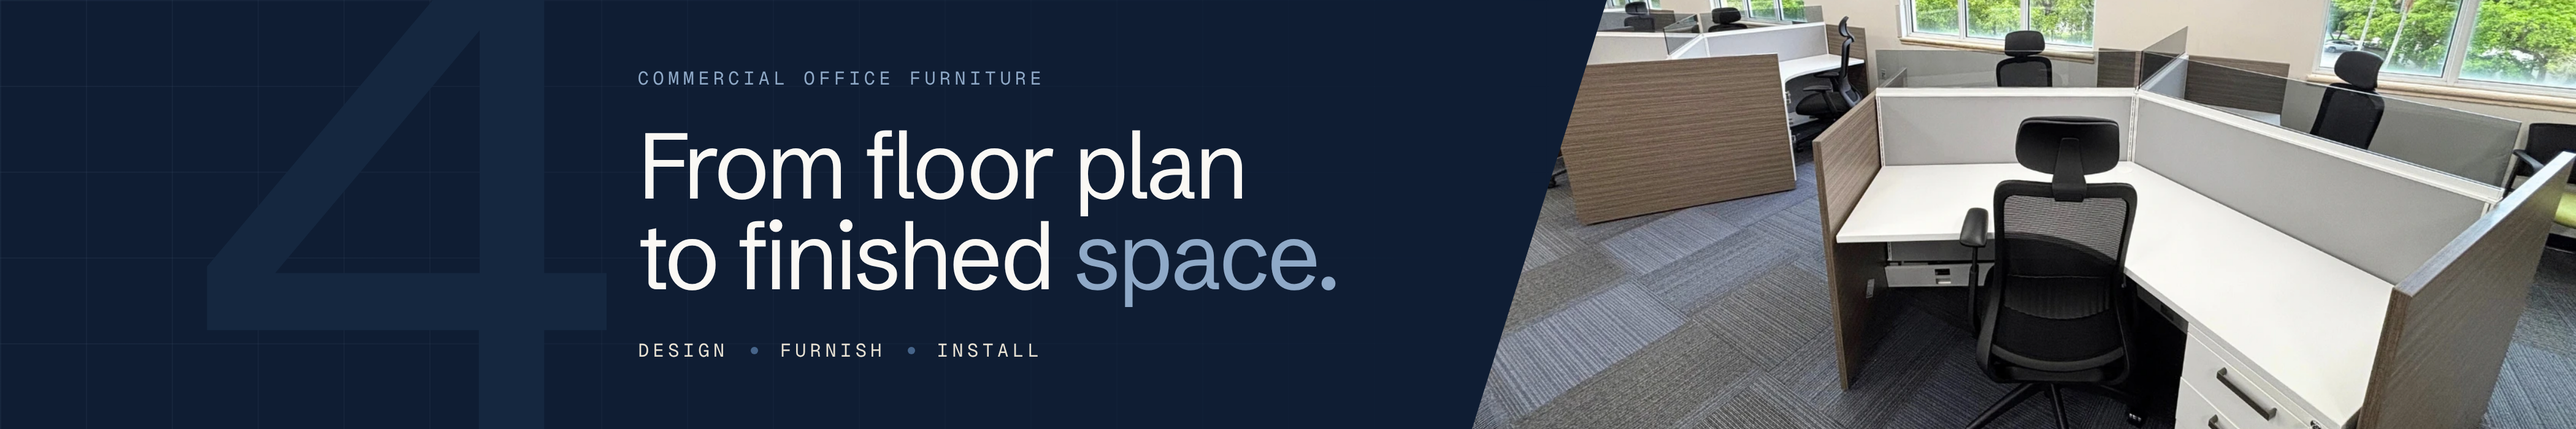
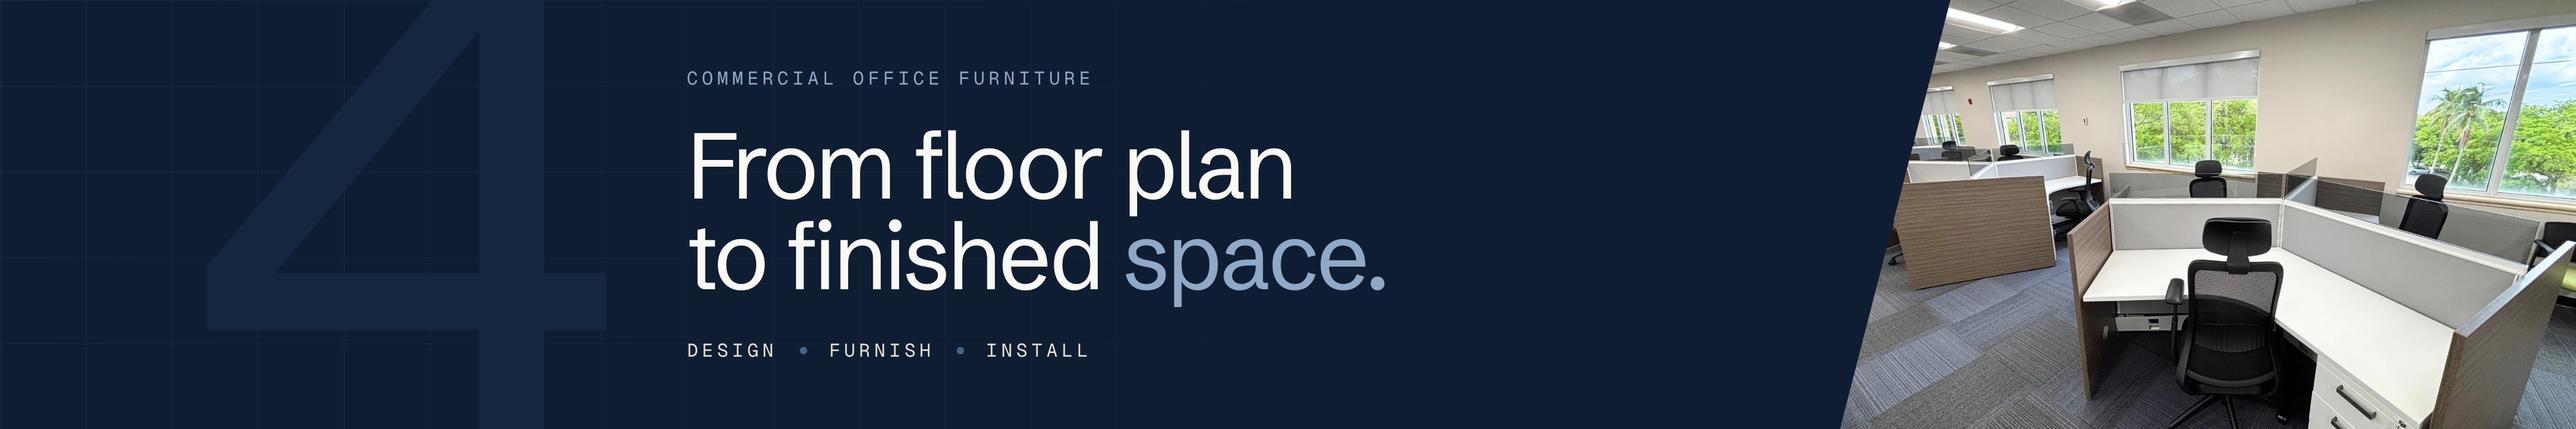
LinkedIn cover: zoom photo out in fade and diagonal variants
Claude-Session: https://claude.ai/code/session_01RAmTvnTRSBrjcziJwch39d

diff --git a/linkedin/company-cover-photo-fade.html b/linkedin/company-cover-photo-fade.html
@@ -10,7 +10,7 @@
   .cover {
     position: relative; width: 2100px; height: 350px; overflow: hidden;
     background: var(--of4s-navy-900); color: var(--of4s-paper-50);
-    display: grid; grid-template-columns: 520px 1fr 900px; align-items: center;
+    display: grid; grid-template-columns: 560px 1fr 560px; align-items: center;
     padding: 0; column-gap: 0; box-sizing: border-box;
   }
   /* Quiet floor-plan hairlines — architectural texture, no photo */
@@ -30,9 +30,9 @@
     color: var(--of4s-navy-800);
   }
   .copy { grid-column: 2; position: relative; padding-right: 0; z-index: 1; }
-  .photo { grid-column: 3; margin-left: -60px; align-self: stretch; position: relative;
-    background: var(--photo) right 78% / cover no-repeat;
-    -webkit-mask-image: linear-gradient(to right, transparent 0%, #000 30%); mask-image: linear-gradient(to right, transparent 0%, #000 30%); }
+  .photo { grid-column: 3; margin-left: -40px; align-self: stretch; position: relative;
+    background: var(--photo) center 55% / cover no-repeat;
+    -webkit-mask-image: linear-gradient(to right, transparent 0%, #000 22%); mask-image: linear-gradient(to right, transparent 0%, #000 22%); }
   .eyebrow {
     font-family: var(--of4s-font-mono); font-size: 15px; letter-spacing: 0.22em;
     text-transform: uppercase; color: var(--of4s-navy-300); margin-bottom: 22px;

diff --git a/linkedin/company-cover-photo-diagonal.html b/linkedin/company-cover-photo-diagonal.html
@@ -10,7 +10,7 @@
   .cover {
     position: relative; width: 2100px; height: 350px; overflow: hidden;
     background: var(--of4s-navy-900); color: var(--of4s-paper-50);
-    display: grid; grid-template-columns: 520px 1fr 900px; align-items: center;
+    display: grid; grid-template-columns: 560px 1fr 600px; align-items: center;
     padding: 0; column-gap: 0; box-sizing: border-box;
   }
   /* Quiet floor-plan hairlines — architectural texture, no photo */
@@ -31,8 +31,8 @@
   }
   .copy { grid-column: 2; position: relative; padding-right: 60px; }
   .photo { grid-column: 3; align-self: stretch; position: relative;
-    background: var(--photo) right 78% / cover no-repeat;
-    clip-path: polygon(110px 0, 100% 0, 100% 100%, 0 100%); }
+    background: var(--photo) center 55% / cover no-repeat;
+    clip-path: polygon(90px 0, 100% 0, 100% 100%, 0 100%); }
   .eyebrow {
     font-family: var(--of4s-font-mono); font-size: 15px; letter-spacing: 0.22em;
     text-transform: uppercase; color: var(--of4s-navy-300); margin-bottom: 22px;
